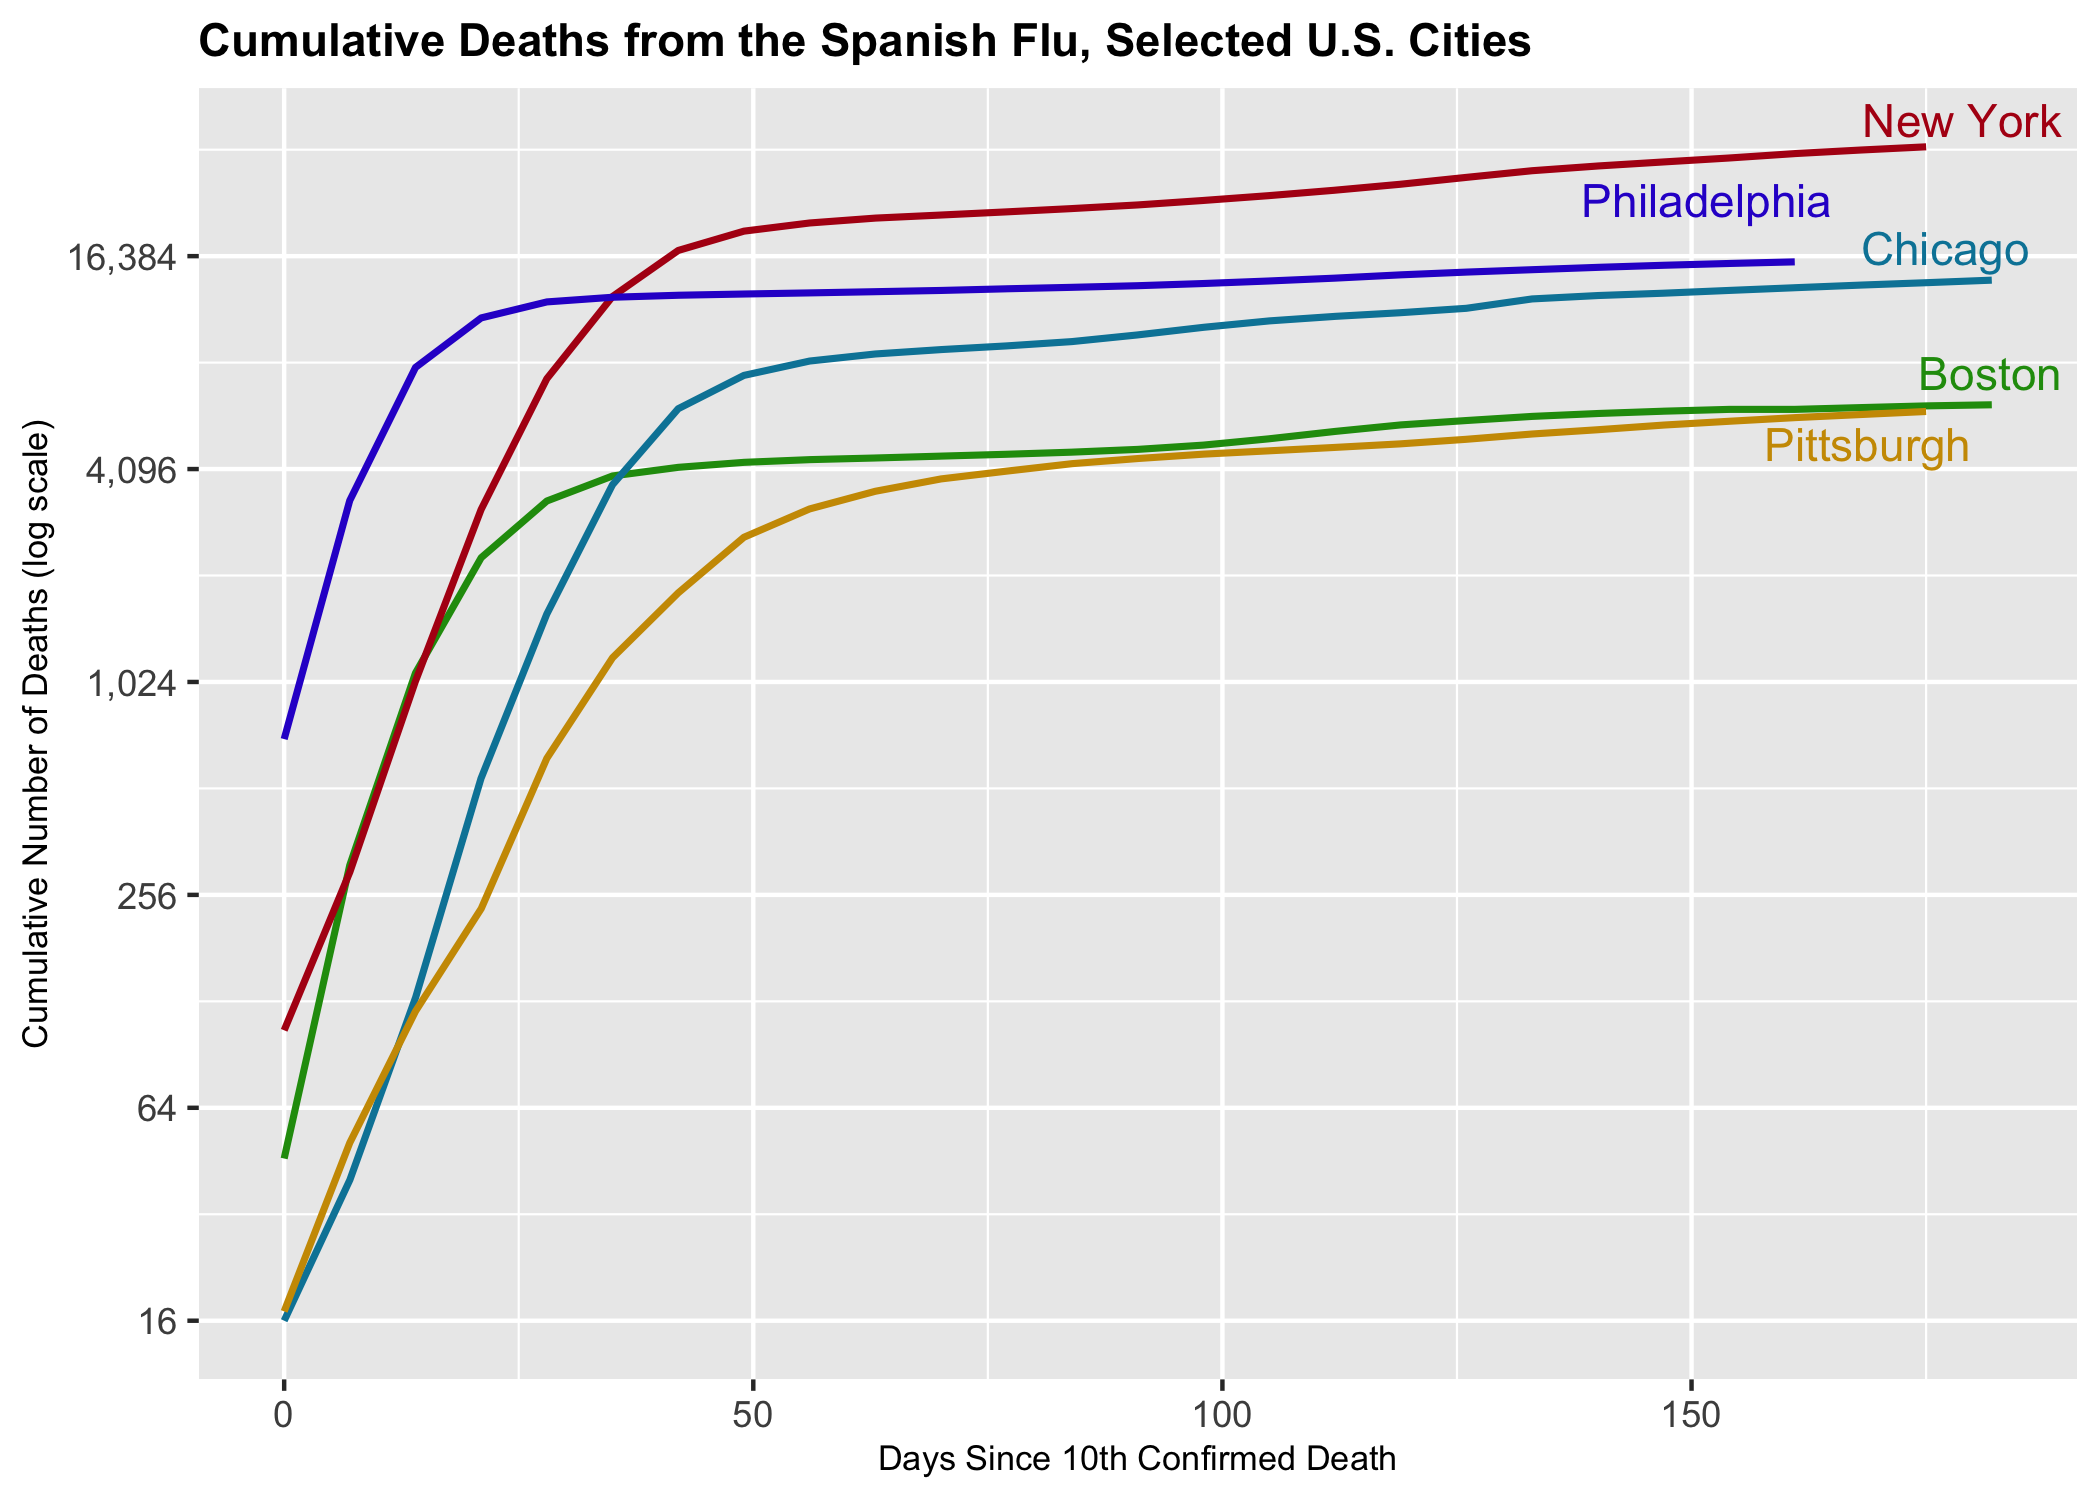
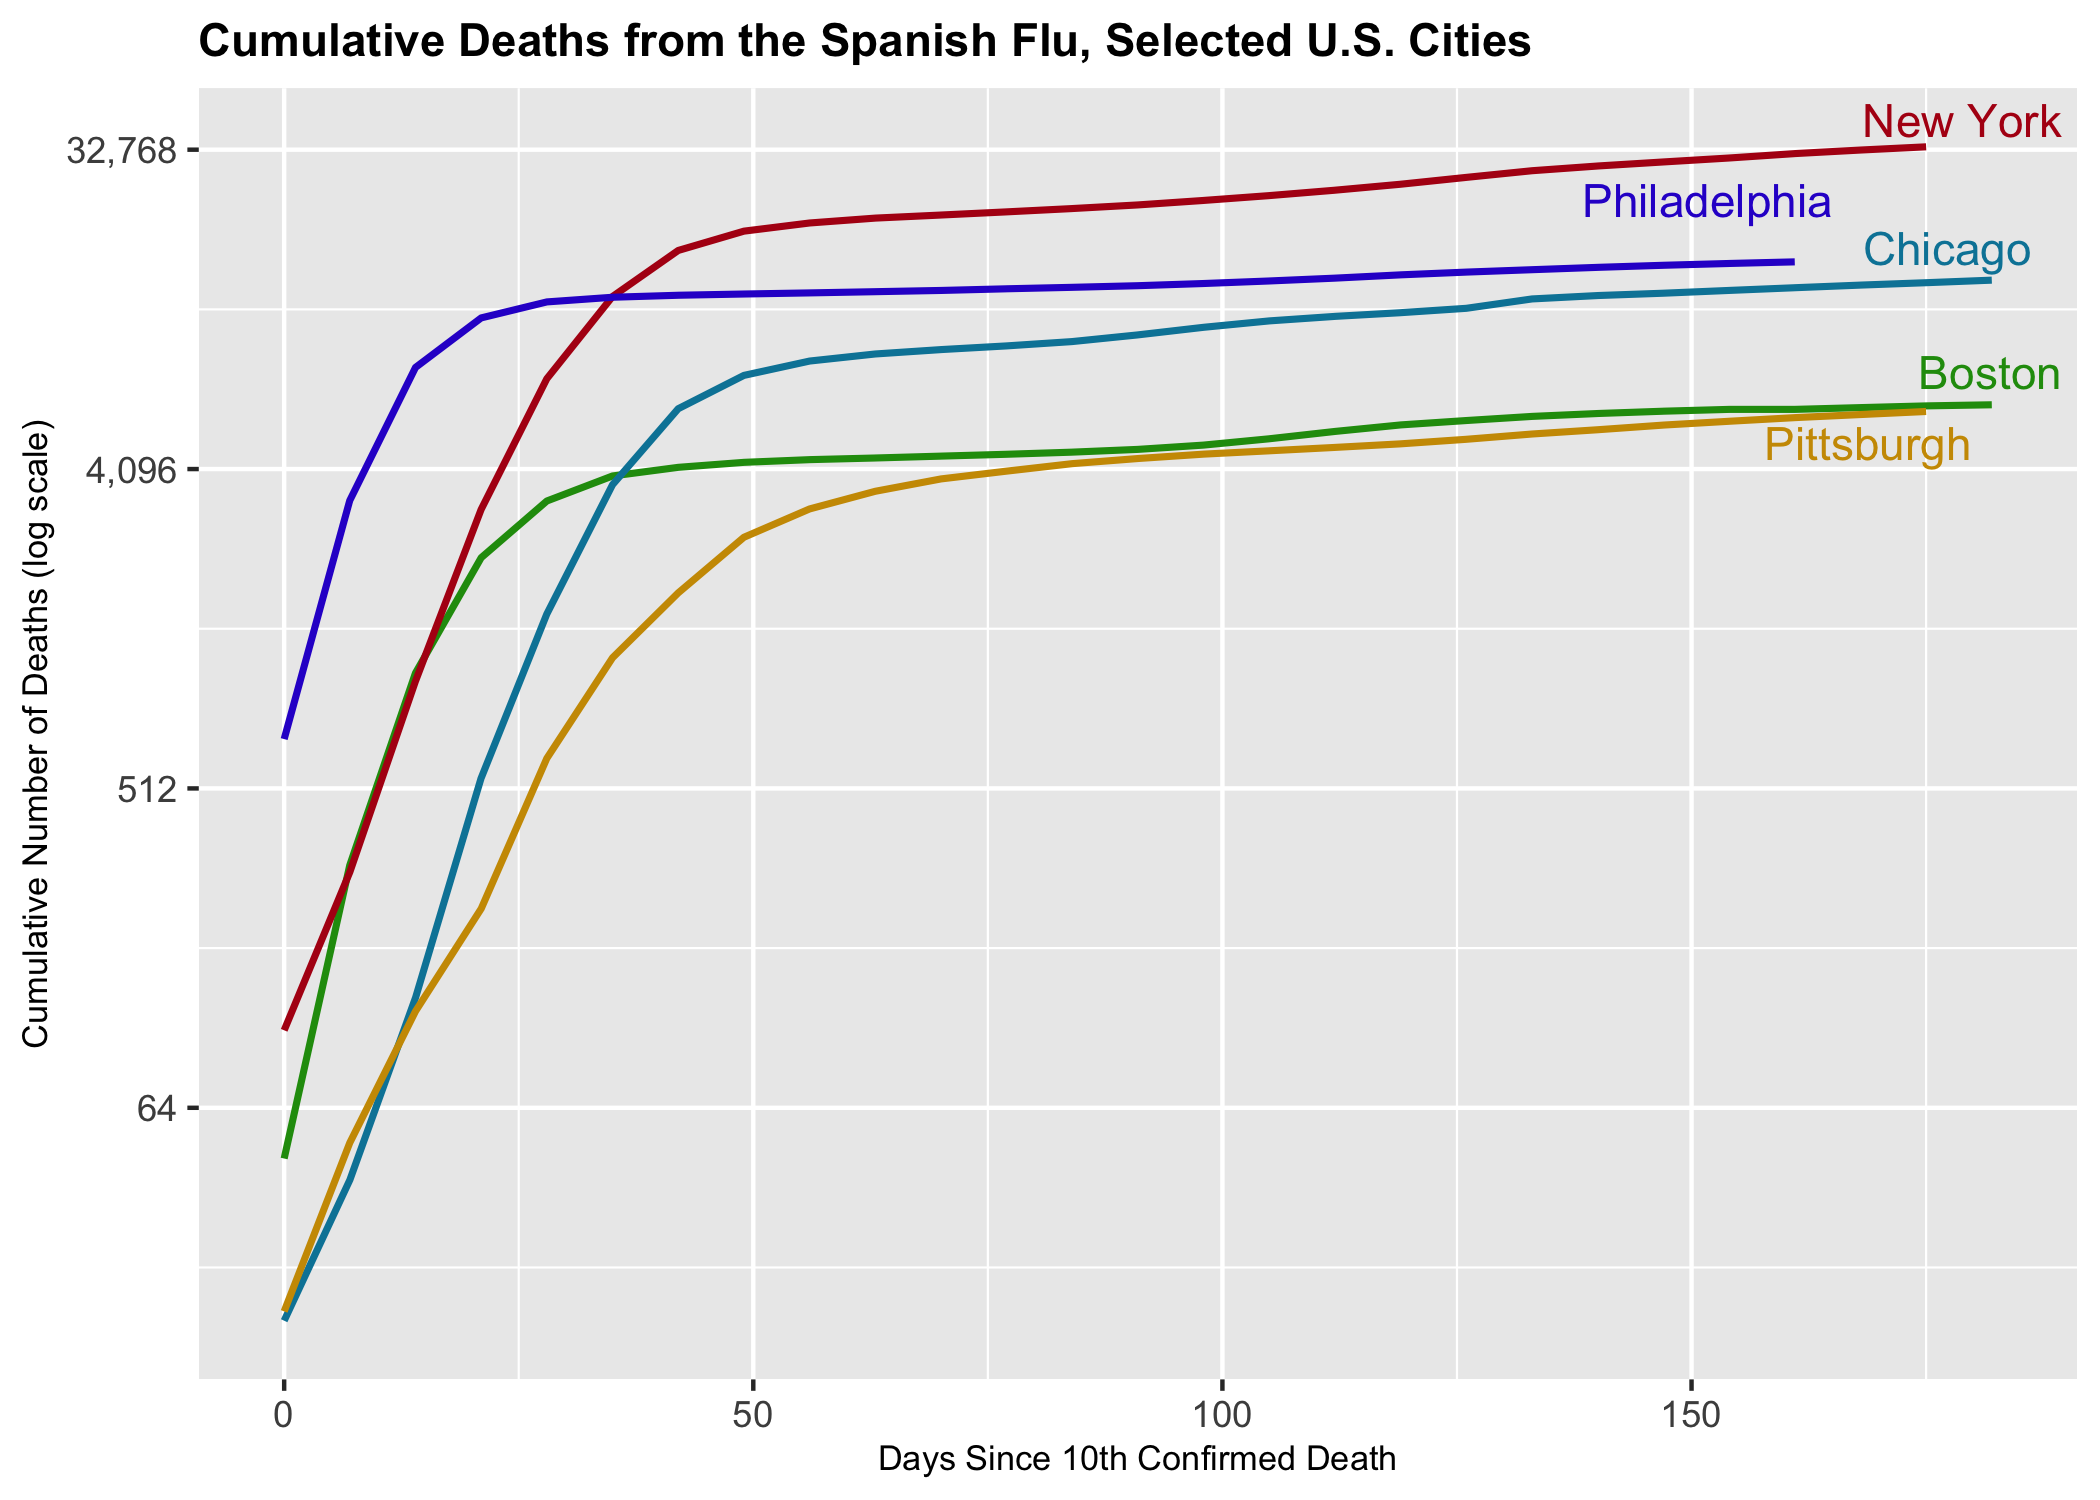
change README.rmd

diff --git a/docs/index.html b/docs/index.html
@@ -70,7 +70,7 @@
 <div class="page-header"><h1 class="hasAnchor">
 <a href="#spanishflu" class="anchor"></a>spanishflu</h1></div>
 <!-- badges: start -->
-<!-- badges: end -->
+
 <p>The <code>spanishflu</code> package contains ten datasets covering the Spanish flu in the United States:</p>
 <ul>
 <li>The first two datasets,<code>naval_forces_in_the_us_deaths</code> and <code>army_in_the_us_deaths</code>, can be used to visualize deaths from influenza and pneumonia in the military forces, where the Spanish flu first spread.</li>
@@ -143,7 +143,6 @@
   <span class="fu">guides</span>(<span class="kw">color</span> <span class="kw">=</span> <span class="fl">FALSE</span>) +
   <span class="fu">scale_color_manual</span>(<span class="kw">values</span> <span class="kw">=</span> <span class="kw pkg">prismatic</span><span class="kw ns">::</span><span class="fu"><a href="https://rdrr.io/pkg/prismatic/man/clr_darken.html">clr_darken</a></span>(<span class="fu">paletteer_d</span>(<span class="st">"jcolors::default"</span>), <span class="fl">0.2</span>)) +
   <span class="fu">scale_y_continuous</span>(<span class="kw">labels</span> <span class="kw">=</span> <span class="kw pkg">scales</span><span class="kw ns">::</span><span class="fu"><a href="https://scales.r-lib.org//reference/label_number.html">comma_format</a></span>(<span class="kw">accuracy</span> <span class="kw">=</span> <span class="fl">1</span>),
-                     <span class="kw">breaks</span> <span class="kw">=</span> <span class="kw pkg">scales</span><span class="kw ns">::</span><span class="fu"><a href="https://scales.r-lib.org//reference/trans_breaks.html">trans_breaks</a></span>(<span class="st">"log2"</span>, <span class="kw">function</span>(<span class="no">x</span>) <span class="fl">2</span>^<span class="no">x</span>),
                      <span class="kw">trans</span> <span class="kw">=</span> <span class="st">"log2"</span>) +
   <span class="fu">labs</span>(<span class="kw">x</span> <span class="kw">=</span> <span class="st">"Days Since 10th Confirmed Death"</span>,
        <span class="kw">y</span> <span class="kw">=</span> <span class="st">"Cumulative Number of Deaths (log scale)"</span>,
@@ -176,7 +175,13 @@
 </ul>
 </div>
 
-  </div>
+  <div class="dev-status">
+<h2>Dev status</h2>
+<ul class="list-unstyled">
+<li><a href="https://travis-ci.org/markushlang/covid19vaccines"><img src="https://travis-ci.org/markushlang/covid19vaccines.svg?branch=master" alt="Travis build status"></a></li>
+</ul>
+</div>
+</div>
 </div>
 
 

diff --git a/README.md b/README.md
@@ -112,7 +112,6 @@ flu_curve %>%
   guides(color = FALSE) + 
   scale_color_manual(values = prismatic::clr_darken(paletteer_d("jcolors::default"), 0.2)) +
   scale_y_continuous(labels = scales::comma_format(accuracy = 1), 
-                     breaks = scales::trans_breaks("log2", function(x) 2^x),
                      trans = "log2") +  
   labs(x = "Days Since 10th Confirmed Death", 
        y = "Cumulative Number of Deaths (log scale)", 
